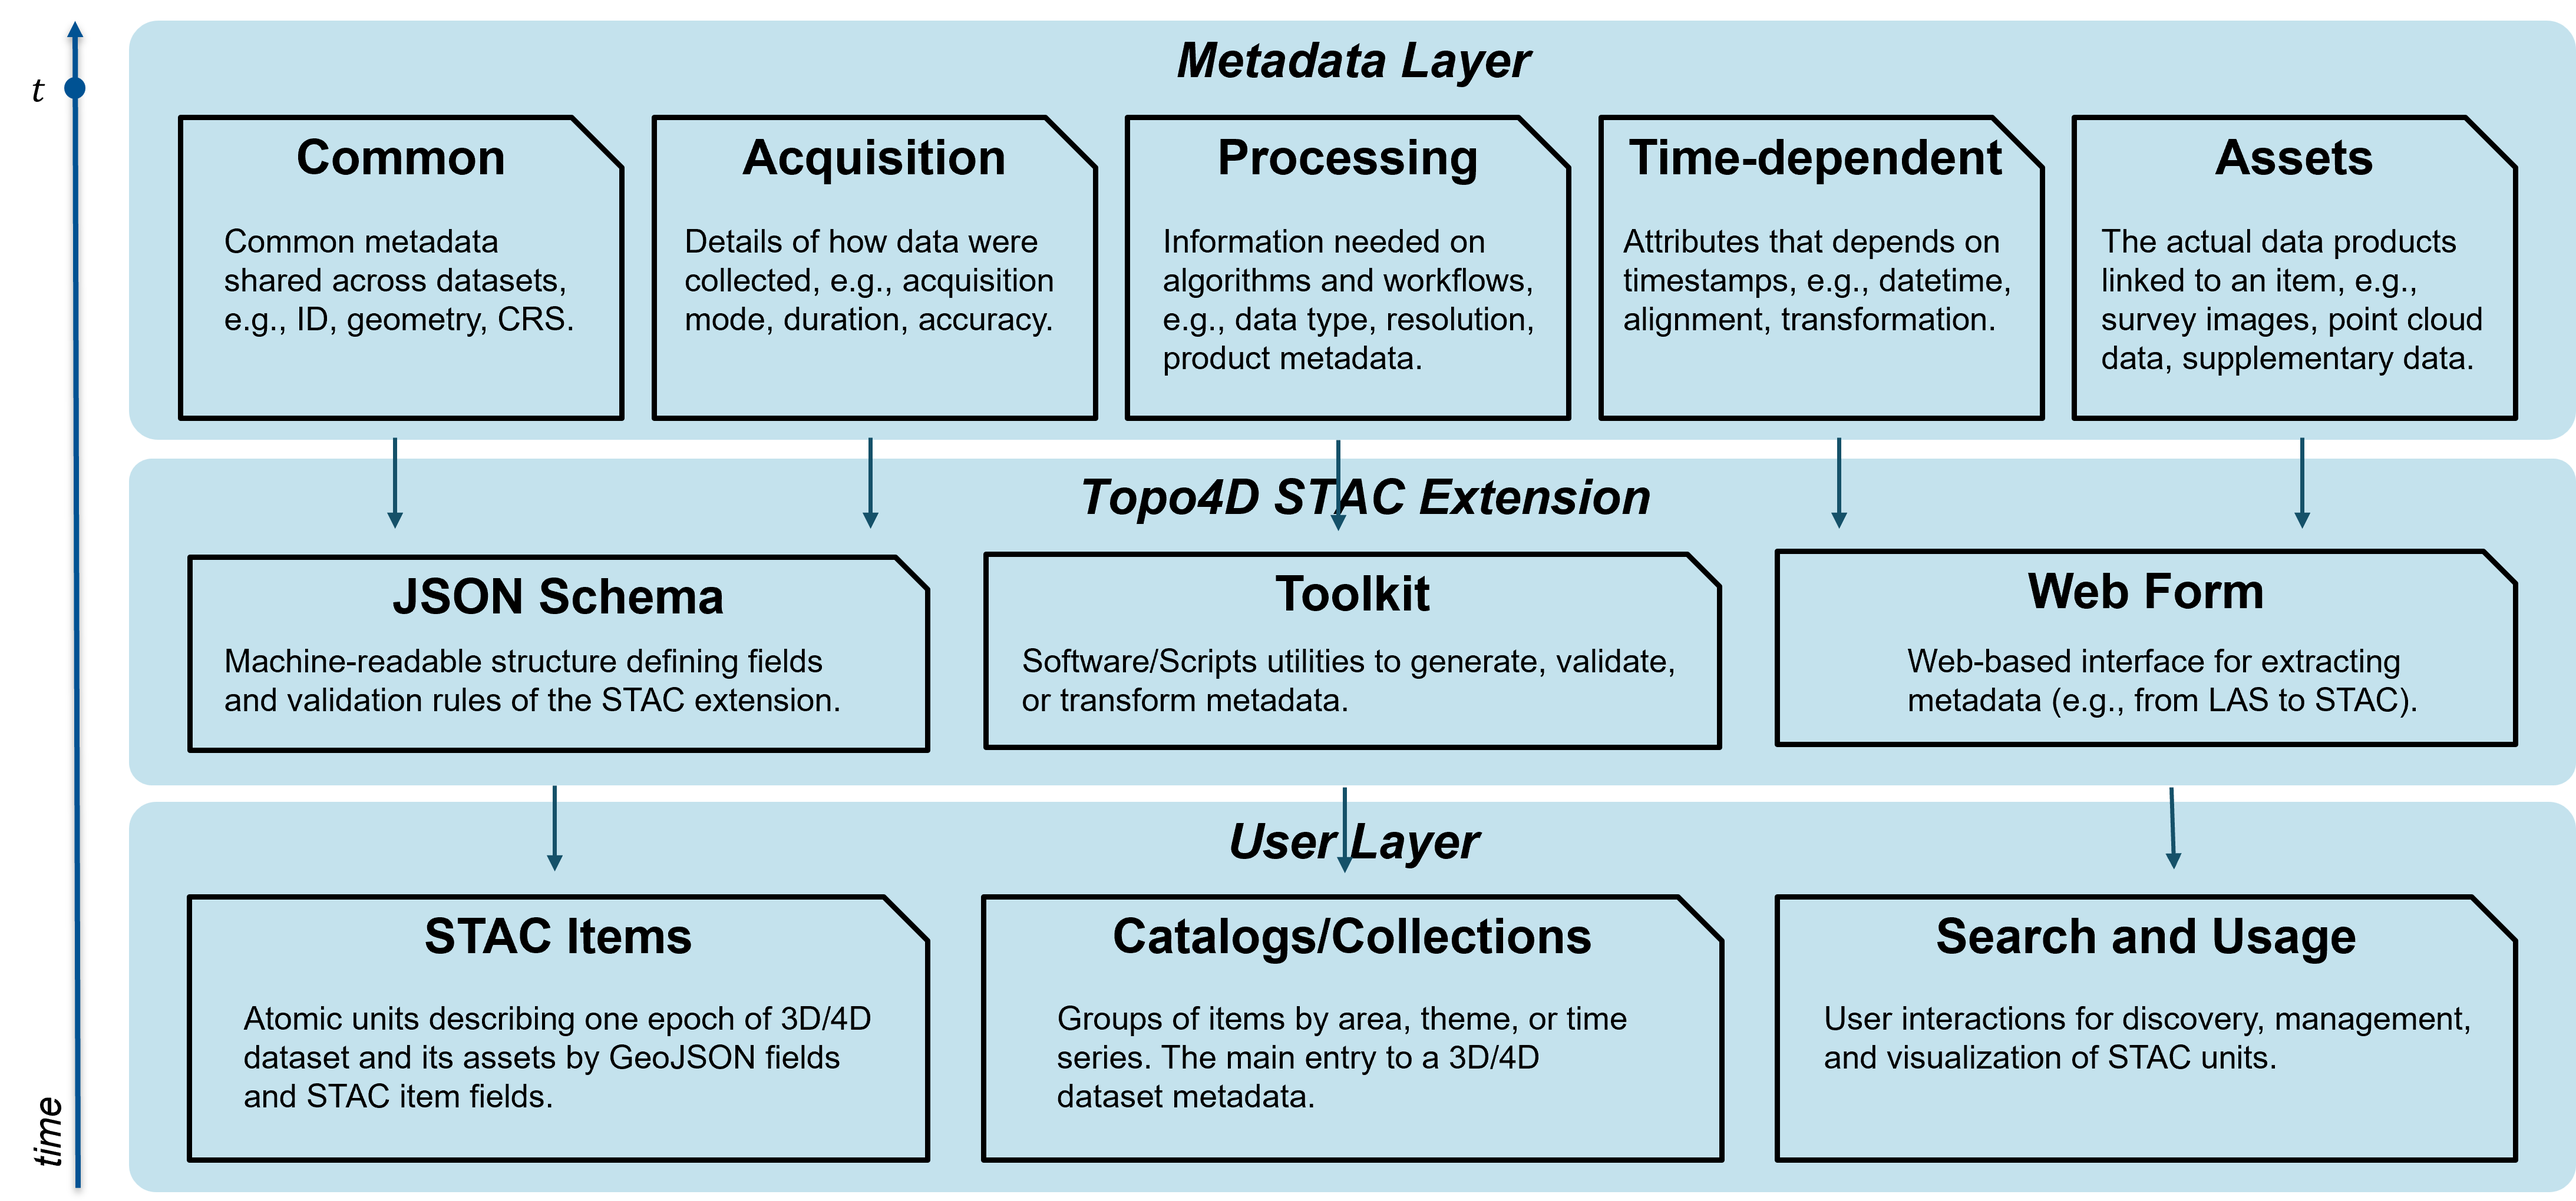
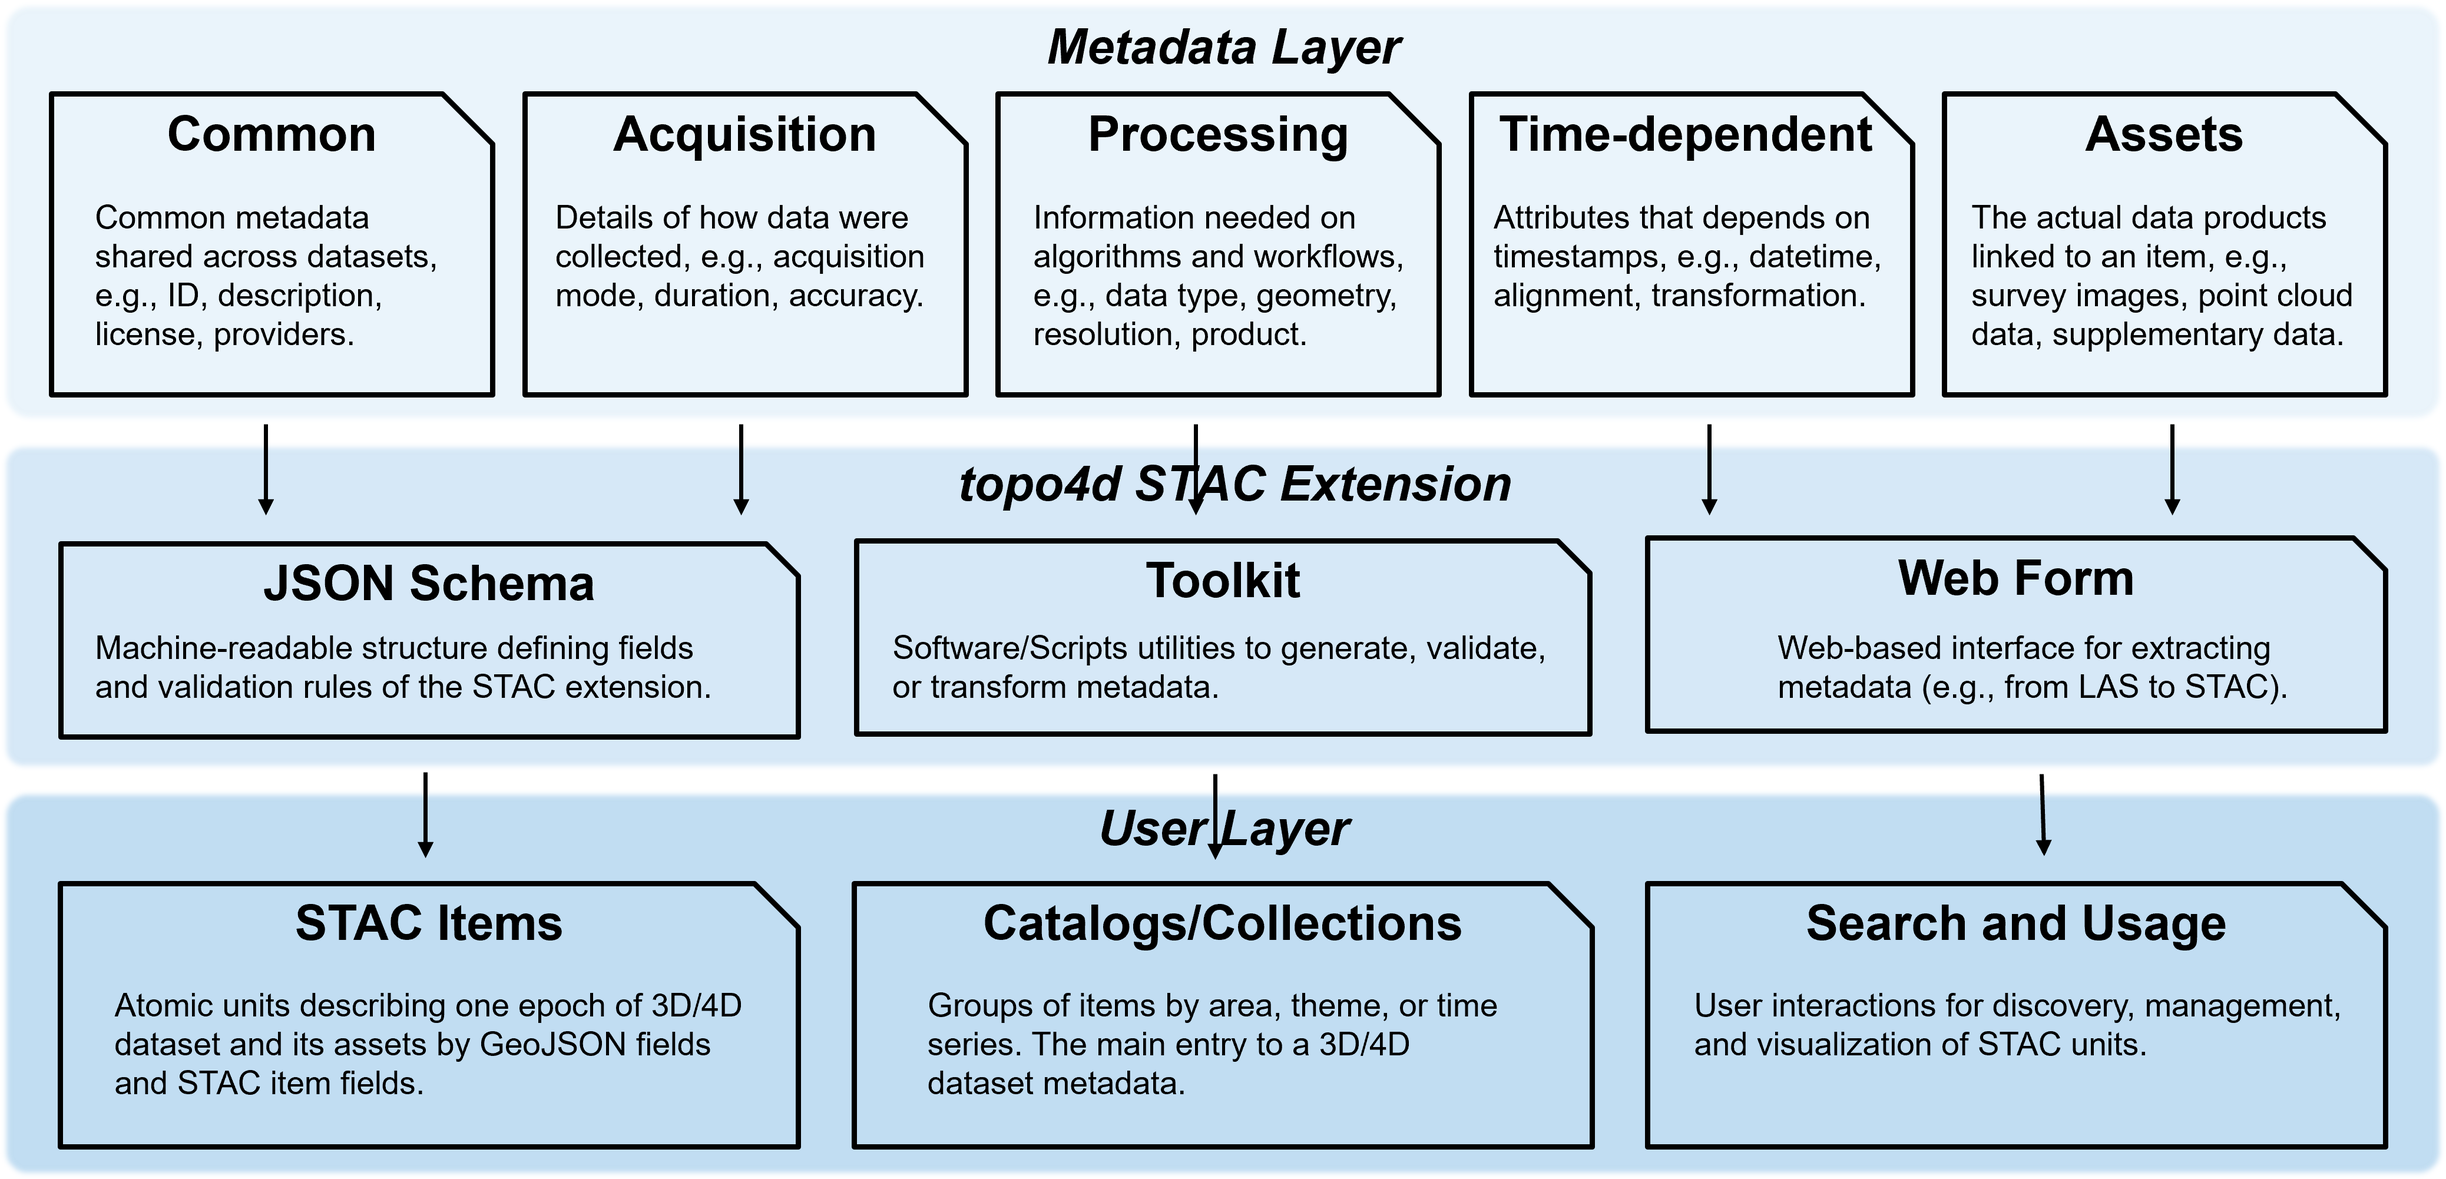
update docs

diff --git a/docs/guides/guide_overview.md b/docs/guides/guide_overview.md
@@ -1,6 +1,6 @@
 # 4D-WORKS Guide: Towards Automatic Metadata Curation for 4D Topographic Observation
 
-4D topographic data, i.e. dense 3D time series, have become increasingly available through near-continuous in-situ observation using, e.g., laser scanning or photogrammetry, to capture Earth surface dynamics across time [^Lindenbergh2025]. Unlike traditional multitemporal datasets with only a few repeat point cloud acquisitions, the time series consist of a high number of epochs (typically hundreds to thousands; e.g., Vos et al. 2021[^Vos2021], Anders et al. 2022[^Anders2022]) and create a great challenge for consistent metadata handling due to a lack of established practices regarding time-dependent metadata. Essential processing information and products, such as transformation matrices required for time-dependent alignment of epochs, has not yet been handled in a consistent manner and usually provided as supplementary files in formats tailored to the user-specific tools that were used for the processing. Reusing the data in different workflows and domains can thus be tedious, as they often require customized scripts to read the large volumes of 4D (3D+time) data. Especially with emerging efforts of research groups to publish such valuable datasets, the development of uniform and flexible metadata practices is a timely effort to establish a cross-community practice.
+4D topographic data, i.e. dense 3D time series, have become increasingly available through near-continuous in-situ observation using, e.g., laser scanning or photogrammetry, to capture Earth surface dynamics across time (Lindenbergh et al., 2025[^Lindenbergh2025]). Unlike traditional multitemporal datasets with only a few repeat point cloud acquisitions, the time series consist of a high number of epochs (typically hundreds to thousands; e.g., Vos et al. 2021[^Vos2021], Anders et al. 2022[^Anders2022]) and create a great challenge for consistent metadata handling due to a lack of established practices regarding time-dependent metadata. Essential processing information and products, such as transformation matrices required for time-dependent alignment of epochs, has not yet been handled in a consistent manner and usually provided as supplementary files in formats tailored to the user-specific tools that were used for the processing. Reusing the data in different workflows and domains can thus be tedious, as they often require customized scripts to read the large volumes of 4D (3D+time) data. Especially with emerging efforts of research groups to publish such valuable datasets, the development of uniform and flexible metadata practices is a timely effort to establish a cross-community practice.
 
 The aim of our 4D-WORKS metadata practice is to improve interoperability, simplify reuse across Research Data Management (RDM) workflows by the Earth System Science (ESS) community, and encourage increasing 4D dataset publication by reducing preparation effort. To address this, we propose a metadata schema and automated curation workflow tailored to time-dependent topographic datasets, with a special focus on near-continuous time series and multi-source data. The approach is demonstrated for different use cases and application scenarios, integrating various data sources (in-situ laser scanning and photogrammetry, satellite imagery) and processing products to foster community adoption and practical applicability. [TODO: state explicitly here the STAC extension? as this is a guide and not proposal]
 
@@ -21,11 +21,11 @@ This documentation summarises how to ingest, construct, and search a STAC-based 
 ## Introduction
 
 ![metadata_in_4d](./assets/metadata_in_4d.png)
-*Different types of metadata (Common - Acquisition - Processing - Time-dependent - Assets) generated during the classical topographic change analysis workflow. Figure by J.Wang.* [TODO I would reference the paper here, insert at the bottom "in review"]
+*Different types of metadata (Common - Acquisition - Processing - Time-dependent - Assets) generated during the classical topographic change analysis workflow. (Figure by Wang et al.[^Wang2026]).*
 
 Topographic 4D data provide dense 3D time series that capture surface change across many epochs. These datasets are valuable for understanding natural processes, infrastructure monitoring, or hazard assessment. However, their reuse and publication are often limited by heterogeneous or incomplete metadata.
 
-Metadata describes the who, what, when, where, why, and how of a geographic dataset, thus ensuring that others can understand, reproduce, and integrate the datasets. As shown in the figure above, metadata in 4D topographic observations can be grouped into five categories: [TODO reference/cite similar to the paper if this is based on sources]
+Metadata describes the who, what, when, where, why, and how of a geographic dataset, thus ensuring that others can understand, reproduce, and integrate the datasets. As shown in the figure above, metadata in 4D topographic observations can be grouped into five categories[^Wang2026]:
 
 - Common metadata: General information such as instruments, platforms, or licenses. Example: sensor type (e.g., UAV with RGB camera) or data license (e.g., Creative Commons).
 
@@ -43,13 +43,13 @@ Establishing a consistent metadata framework is therefore crucial to ensure inte
 
 ## Prerequisites
 
-Before using the Topo4D metadata curation framework, some basic knowledge and tools are required. Users should be familiar with point cloud data formats (e.g., LAS/LAZ), common metadata standards, and the SpatioTemporal Asset Catalog (STAC) [TODO: can you reference to a STAC intro/tutorial here?]. 
-A Python environment with the provided toolkit, as well as access to representative survey data from laser scanning or photogrammetry, is recommended. [TODO: not clear to me what is meant with this access; do you mean for testing here or in general? Seems not to fit as requirement here]
+Before using the Topo4D metadata curation framework, some basic knowledge and tools are required. Users should be familiar with point cloud data formats (e.g., LAS/LAZ), common metadata standards, and the SpatioTemporal Asset Catalog ([STAC](https://stacspec.org/en/tutorials/intro-to-stac/)). 
+A Python environment with the provided toolkit [topo4D Extension API](../api/topo4d-extension.md), as well as access to representative survey data [demo data TODO]() from laser scanning or photogrammetry, is recommended.
 
 ## Metadata Curation Workflow
 
 ![3layer_curation](./assets/3layer_topo4d.png)
-*Three-layer architecture of the Topo4D STAC extension for 3D/4D topographic metadata curation. Figure by J.Wang* [TODO: paper ref, see above]
+*Three-layer architecture of the Topo4D STAC extension for 3D/4D topographic metadata curation. (Figure by Wang et al.[^Wang2026])*
 
 Our system for 4D topographic metadata curation is structured into three layers.
 
@@ -64,6 +64,7 @@ This architecture ensures metadata are consistent, interoperable, and directly u
 
 # References
 
-[^Vos2021]: S. Vos, K. Anders, M. Kuschnerus, R. Lindenbergh, B. Höfle, S. Aarninkhof, S. de Vries, “A high-resolution 4D terrestrial laser scan dataset of the Kijkduin beach-dune system, The Netherlands,” Sci Data 9, 191, Apr. 2022, doi:https://doi.org/10.1038/s41597-022-01291-9.
+[^Vos2021]: S. Vos, K. Anders, M. Kuschnerus, R. Lindenbergh, B. Höfle, S. Aarninkhof, S. de Vries, "A high-resolution 4D terrestrial laser scan dataset of the Kijkduin beach-dune system, The Netherlands," Sci Data 9, 191, Apr. 2022, doi:https://doi.org/10.1038/s41597-022-01291-9.
 [^Anders2022]: K. Anders, L. Winiwarter and B. Höfle, "Improving Change Analysis From Near-Continuous 3D Time Series by Considering Full Temporal Information," in IEEE Geoscience and Remote Sensing Letters, vol. 19, pp. 1-5, 2022, Art no. 3511105, doi: https://doi.org/10.1109/LGRS.2022.3148920.
-[^Lindenbergh2025]: 
+[^Lindenbergh2025]: Lindenbergh, R., Anders, K., Campos, M., Czerwonka-Schröder, D., Höfle, B., Kuschnerus, M., ... & Vos, S. (2025). Permanent terrestrial laser scanning for near-continuous environmental observations: Systems, methods, challenges and applications. ISPRS Open Journal of Photogrammetry and Remote Sensing, 100094, doi:https://doi.org/10.1016/j.ophoto.2025.100094.
+[^Wang2026]: J. Wang, X. Huang, P. Maydhisudhiwongs, M. Letard, B. Teuscher, M. Werner, K. Anders, "topo4d: Topographic 4D STAC Extension for Curating and Cataloging Multi-Source Geospatial Time Series Datasets," in review.
